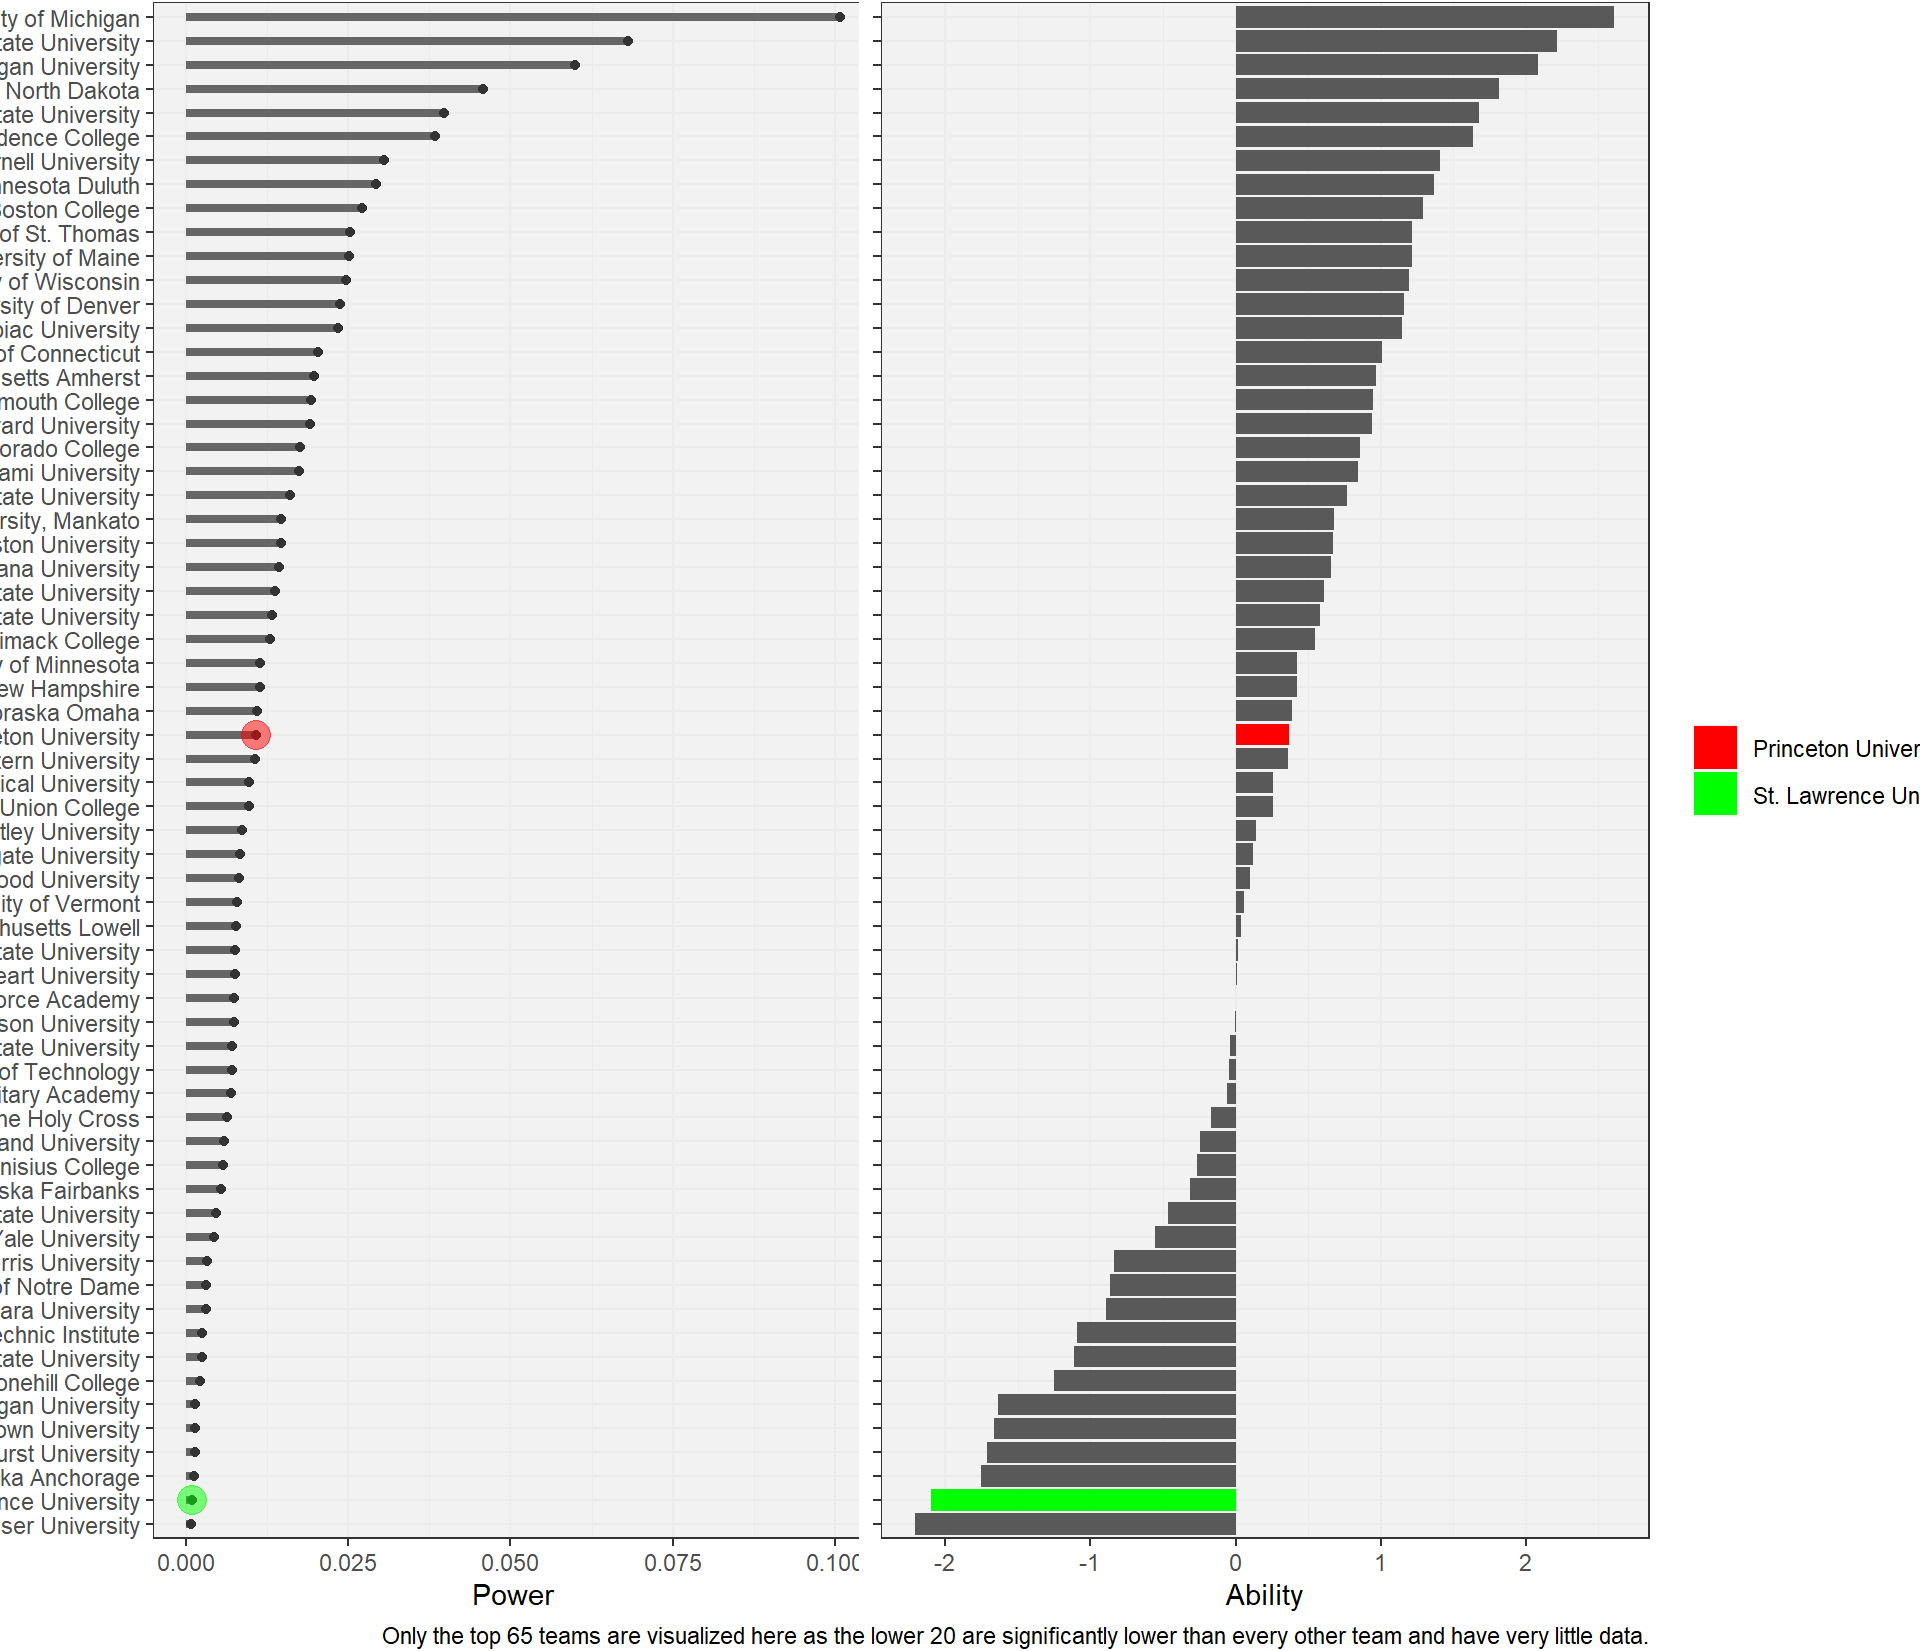
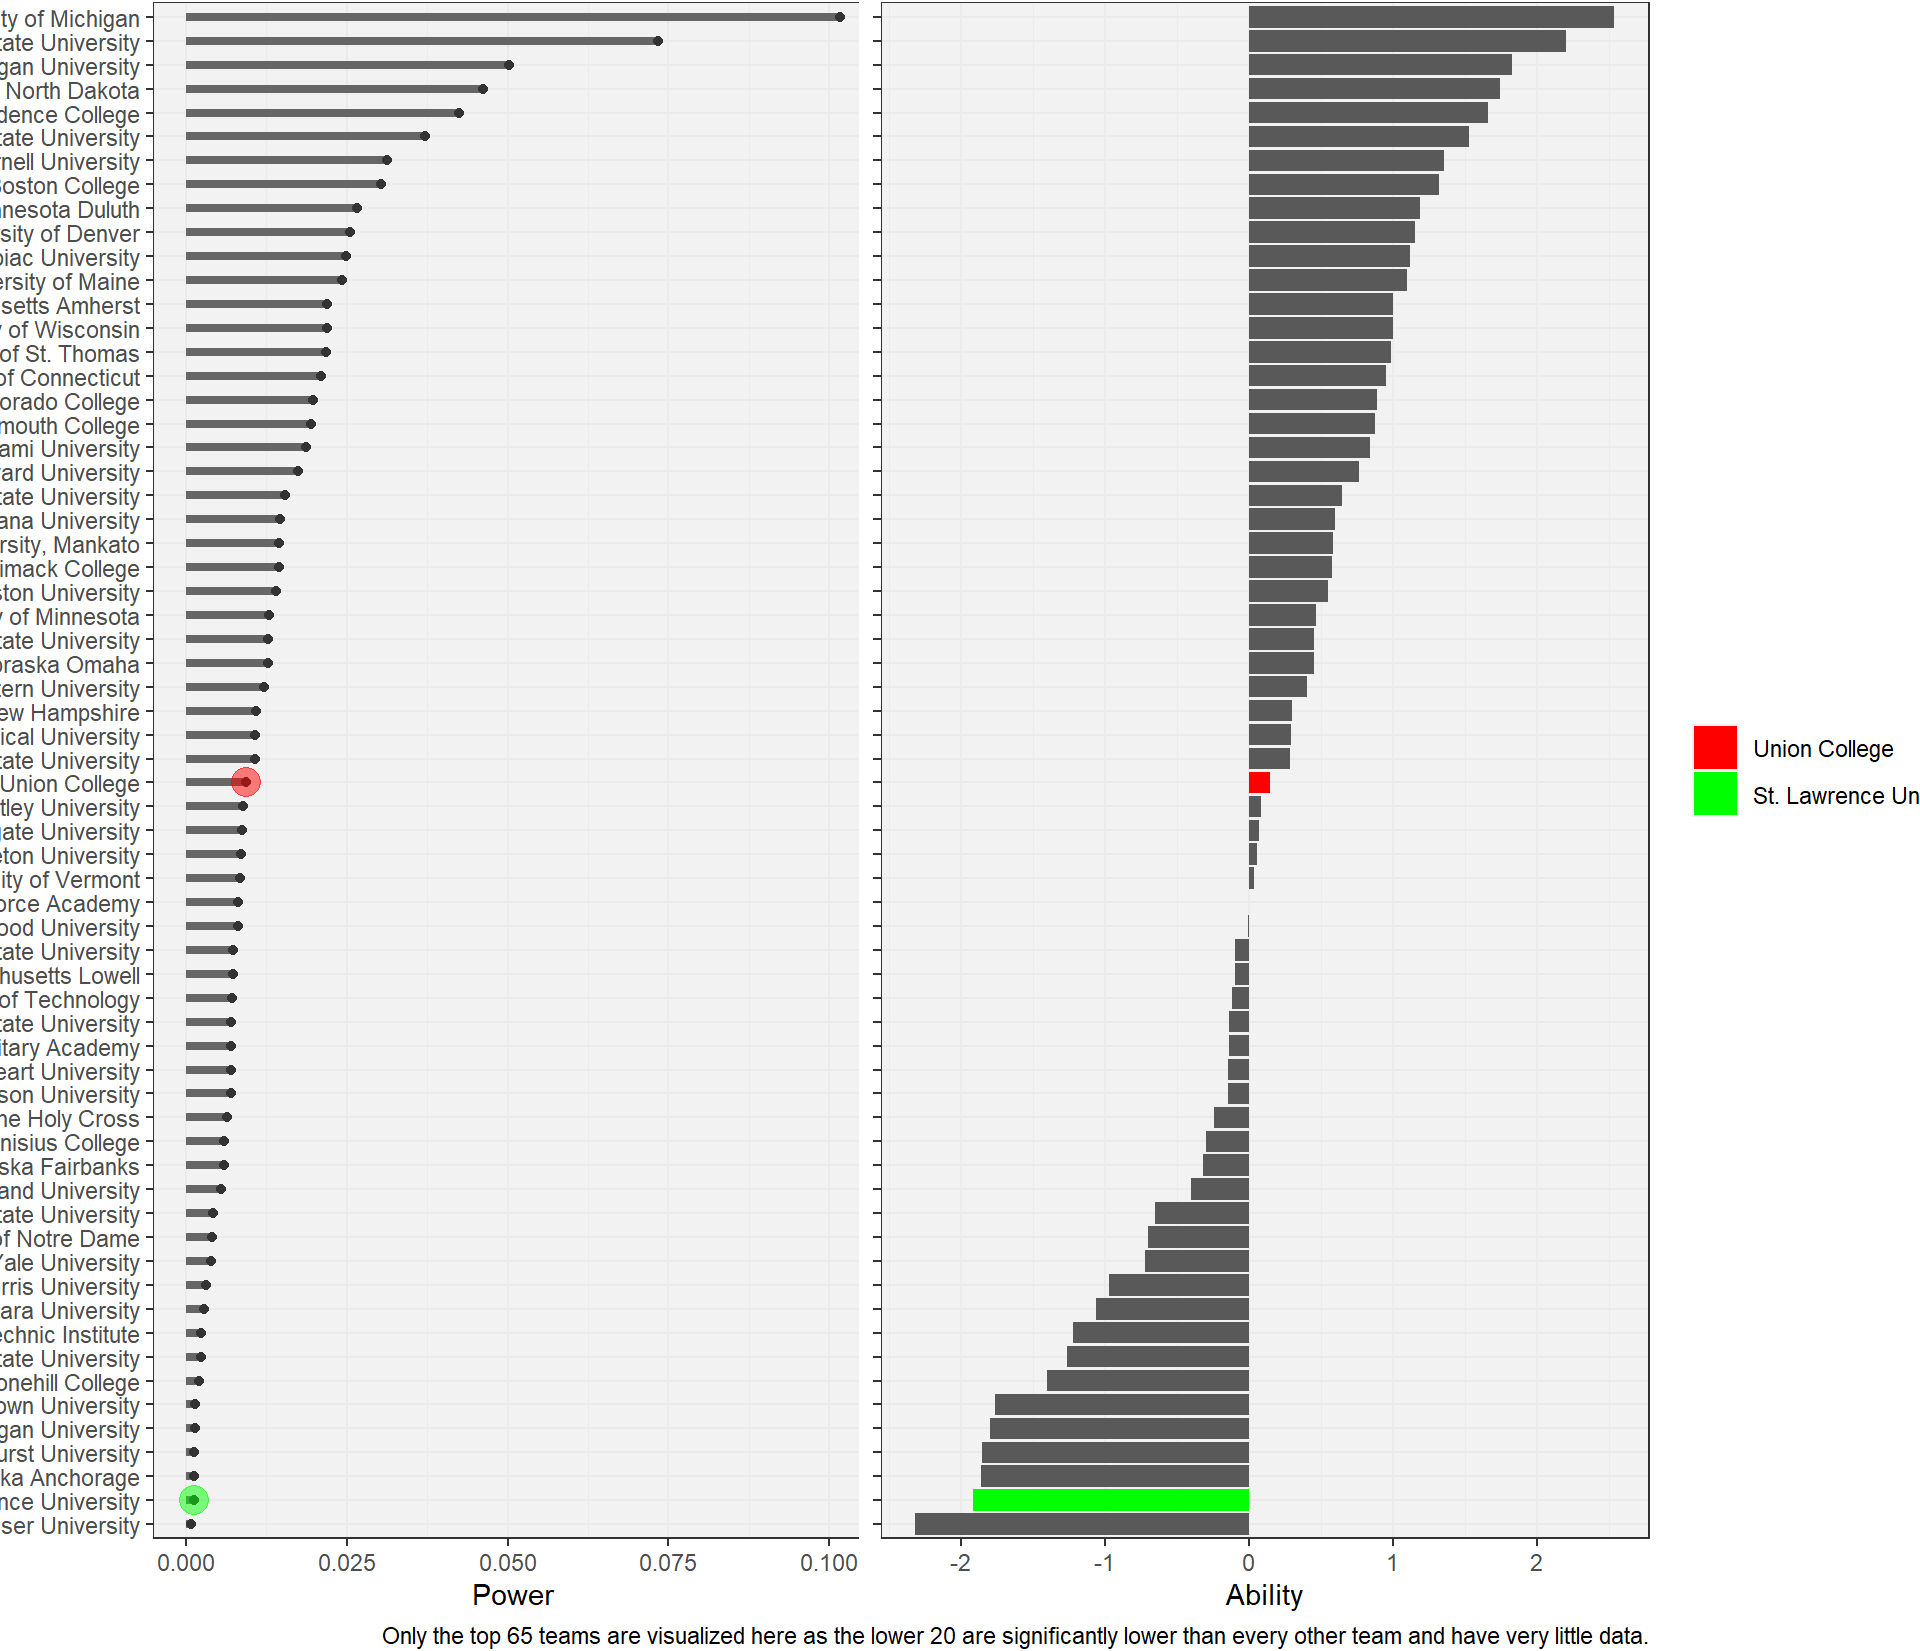
Updated for Union Hockey game

diff --git a/docs/posts/College Hockey/index.html b/docs/posts/College Hockey/index.html
@@ -224,32 +224,32 @@ pre > code.sourceCode > span > a:first-child::before { text-decoration: underlin
 <span id="cb1-2"><a href="#cb1-2" aria-hidden="true" tabindex="-1"></a><span class="co"># url &lt;- "https://www.uscho.com/scoreboard/division-i-women/20252026/composite-schedule/"</span></span>
 <span id="cb1-3"><a href="#cb1-3" aria-hidden="true" tabindex="-1"></a>url <span class="ot">&lt;-</span> <span class="st">"https://www.uscho.com/scoreboard/division-i-men/20252026/composite-schedule/"</span></span>
 <span id="cb1-4"><a href="#cb1-4" aria-hidden="true" tabindex="-1"></a>home_team <span class="ot">&lt;-</span> <span class="st">"St. Lawrence University"</span></span>
-<span id="cb1-5"><a href="#cb1-5" aria-hidden="true" tabindex="-1"></a>away_team <span class="ot">&lt;-</span> <span class="st">"Princeton University"</span></span></code></pre></div><button title="Copy to Clipboard" class="code-copy-button"><i class="bi"></i></button></div>
+<span id="cb1-5"><a href="#cb1-5" aria-hidden="true" tabindex="-1"></a>away_team <span class="ot">&lt;-</span> <span class="st">"Union College"</span></span></code></pre></div><button title="Copy to Clipboard" class="code-copy-button"><i class="bi"></i></button></div>
 </div>
 </section>
 <section id="outcome-prediction" class="level1">
 <h1>Outcome Prediction</h1>
 <div class="cell">
 <div class="cell-output cell-output-stdout">
-<pre><code>Probability of St. Lawrence University win:  0.09515896 </code></pre>
+<pre><code>Probability of St. Lawrence University win:  0.09025807 </code></pre>
 </div>
 <div class="cell-output cell-output-stdout">
-<pre><code>St. Lawrence University Expected Goals:  1.880149 </code></pre>
+<pre><code>St. Lawrence University Expected Goals:  2.077115 </code></pre>
 </div>
 <div class="cell-output cell-output-stdout">
-<pre><code>Probability of Princeton University win:  0.8048577 </code></pre>
+<pre><code>Probability of Union College win:  0.8114274 </code></pre>
 </div>
 <div class="cell-output cell-output-stdout">
-<pre><code>Princeton University Expected Goals:  4.613852 </code></pre>
+<pre><code>Union College Expected Goals:  5.045386 </code></pre>
 </div>
 <div class="cell-output cell-output-stdout">
-<pre><code>Probability of a tie:  0.09203802</code></pre>
+<pre><code>Probability of a tie:  0.08376587</code></pre>
 </div>
 </div>
 <div class="cell">
-<div class="code-copy-outer-scaffold"><div class="sourceCode cell-code" id="cb7"><pre class="sourceCode r code-with-copy"><code class="sourceCode r"><span id="cb7-1"><a href="#cb7-1" aria-hidden="true" tabindex="-1"></a>throwaway_home_df <span class="ot">&lt;-</span> ratings_plot <span class="sc">|&gt;</span> <span class="fu">filter</span>(FullName <span class="sc">==</span> home_team) <span class="sc">|&gt;</span> <span class="fu">mutate</span>(<span class="at">Team =</span> FullName)</span>
+<div class="code-copy-outer-scaffold"><div class="sourceCode cell-code" id="cb7"><pre class="sourceCode r code-with-copy"><code class="sourceCode r"><span id="cb7-1"><a href="#cb7-1" aria-hidden="true" tabindex="-1"></a>throwaway_home_df <span class="ot">&lt;-</span> ratings_plot <span class="sc">|&gt;</span> <span class="fu">filter</span>(FullName <span class="sc">==</span> home_team) <span class="sc">|&gt;</span> <span class="fu">mutate</span>(<span class="at">Team =</span> FullName, <span class="at">home_team =</span> FullName)</span>
 <span id="cb7-2"><a href="#cb7-2" aria-hidden="true" tabindex="-1"></a></span>
-<span id="cb7-3"><a href="#cb7-3" aria-hidden="true" tabindex="-1"></a>throwaway_away_df <span class="ot">&lt;-</span> ratings_plot <span class="sc">|&gt;</span> <span class="fu">filter</span>(FullName <span class="sc">==</span> away_team) <span class="sc">|&gt;</span> <span class="fu">mutate</span>(<span class="at">Team =</span> FullName)</span></code></pre></div><button title="Copy to Clipboard" class="code-copy-button"><i class="bi"></i></button></div>
+<span id="cb7-3"><a href="#cb7-3" aria-hidden="true" tabindex="-1"></a>throwaway_away_df <span class="ot">&lt;-</span> ratings_plot <span class="sc">|&gt;</span> <span class="fu">filter</span>(FullName <span class="sc">==</span> away_team) <span class="sc">|&gt;</span> <span class="fu">mutate</span>(<span class="at">Team =</span> FullName, <span class="at">away_team =</span> FullName)</span></code></pre></div><button title="Copy to Clipboard" class="code-copy-button"><i class="bi"></i></button></div>
 </div>
 </section>
 <section id="power-ability" class="level1">
@@ -280,15 +280,15 @@ pre > code.sourceCode > span > a:first-child::before { text-decoration: underlin
 <p><strong>St.&nbsp;Lawrence University Goalies</strong></p>
 <div class="cell">
 <div class="cell-output-display">
-<div class="reactable html-widget html-fill-item" id="htmlwidget-02368cdd428c0387c436" style="width:auto;height:auto;"></div>
-<script type="application/json" data-for="htmlwidget-02368cdd428c0387c436">{"x":{"tag":{"name":"Reactable","attribs":{"data":{"Rk":[49,82,104],"Name":["Mason Kucenski","Collin Winn","Cam Smith"],"Age":[23,21,23],"GP":[15,9,5],"SVPrct":[0.873,0.883,0.903],"W":[2,0,1],"L":[11,7,3],"GA":[57,37,18],"SV":[392,278,168],"SOG":[449,315,186],"TIME":[840,493,272],"GSAA":[-10.001,-4.027,1.47],"relative_save_prct":[-0.013,-0.003,0.017]},"columns":[{"id":"Rk","name":"Rank","type":"numeric"},{"id":"Name","name":"Name","type":"character"},{"id":"Age","name":"Age","type":"numeric"},{"id":"GP","name":"Games Played","type":"numeric"},{"id":"SVPrct","name":"Save %","type":"numeric"},{"id":"W","name":"Wins","type":"numeric"},{"id":"L","name":"Losses","type":"numeric"},{"id":"GA","name":"Goals Allowed","type":"numeric"},{"id":"SV","name":"Saves","type":"numeric"},{"id":"SOG","name":"Shots on Goal","type":"numeric"},{"id":"TIME","name":"Time On Ice","type":"numeric"},{"id":"GSAA","name":"Goals Saved Above Average","type":"numeric"},{"id":"relative_save_prct","name":"Relative Save Percent","type":"numeric"}],"dataKey":"ee6c93340849a9e25859b6a091eb9d48"},"children":[]},"class":"reactR_markup"},"evals":[],"jsHooks":[]}</script>
+<div class="reactable html-widget html-fill-item" id="htmlwidget-f39253842a69598cb8b8" style="width:auto;height:auto;"></div>
+<script type="application/json" data-for="htmlwidget-f39253842a69598cb8b8">{"x":{"tag":{"name":"Reactable","attribs":{"data":{"Rk":[53,87,101],"Name":["Mason Kucenski","Collin Winn","Cam Smith"],"Age":[23,21,23],"GP":[15,9,6],"SVPrct":[0.873,0.883,0.904],"W":[2,0,2],"L":[11,7,3],"GA":[57,37,20],"SV":[392,278,189],"SOG":[449,315,209],"TIME":[840,493,332],"GSAA":[-10.651,-4.483,1.575],"relative_save_prct":[-0.014,-0.004,0.017]},"columns":[{"id":"Rk","name":"Rank","type":"numeric"},{"id":"Name","name":"Name","type":"character"},{"id":"Age","name":"Age","type":"numeric"},{"id":"GP","name":"Games Played","type":"numeric"},{"id":"SVPrct","name":"Save %","type":"numeric"},{"id":"W","name":"Wins","type":"numeric"},{"id":"L","name":"Losses","type":"numeric"},{"id":"GA","name":"Goals Allowed","type":"numeric"},{"id":"SV","name":"Saves","type":"numeric"},{"id":"SOG","name":"Shots on Goal","type":"numeric"},{"id":"TIME","name":"Time On Ice","type":"numeric"},{"id":"GSAA","name":"Goals Saved Above Average","type":"numeric"},{"id":"relative_save_prct","name":"Relative Save Percent","type":"numeric"}],"dataKey":"7f35b498da2c75913e4a2dfa7ac3d980"},"children":[]},"class":"reactR_markup"},"evals":[],"jsHooks":[]}</script>
 </div>
 </div>
-<p><strong>Princeton University Goalies</strong></p>
+<p><strong>Union College Goalies</strong></p>
 <div class="cell">
 <div class="cell-output-display">
-<div class="reactable html-widget html-fill-item" id="htmlwidget-cc1d3556998615cc3e8b" style="width:auto;height:auto;"></div>
-<script type="application/json" data-for="htmlwidget-cc1d3556998615cc3e8b">{"x":{"tag":{"name":"Reactable","attribs":{"data":{"Rk":[75,80,133],"Name":["Conor Callaghan","Arthur Smith","Daniel Moor"],"Age":[22,21,19],"GP":[11,10,2],"SVPrct":[0.906,0.913,0.852],"W":[7,5,0],"L":[2,5,1],"GA":[23,24,4],"SV":[221,253,23],"SOG":[244,277,27],"TIME":[588,584,85],"GSAA":[2.541,4.995,-1.174],"relative_save_prct":[0.016,0.023,-0.038]},"columns":[{"id":"Rk","name":"Rank","type":"numeric"},{"id":"Name","name":"Name","type":"character"},{"id":"Age","name":"Age","type":"numeric"},{"id":"GP","name":"Games Played","type":"numeric"},{"id":"SVPrct","name":"Save %","type":"numeric"},{"id":"W","name":"Wins","type":"numeric"},{"id":"L","name":"Losses","type":"numeric"},{"id":"GA","name":"Goals Allowed","type":"numeric"},{"id":"SV","name":"Saves","type":"numeric"},{"id":"SOG","name":"Shots on Goal","type":"numeric"},{"id":"TIME","name":"Time On Ice","type":"numeric"},{"id":"GSAA","name":"Goals Saved Above Average","type":"numeric"},{"id":"relative_save_prct","name":"Relative Save Percent","type":"numeric"}],"dataKey":"e71d389b3479c7119fa6c6e9c0a6b0f2"},"children":[]},"class":"reactR_markup"},"evals":[],"jsHooks":[]}</script>
+<div class="reactable html-widget html-fill-item" id="htmlwidget-eb1a883e754cc07c7e24" style="width:auto;height:auto;"></div>
+<script type="application/json" data-for="htmlwidget-eb1a883e754cc07c7e24">{"x":{"tag":{"name":"Reactable","attribs":{"data":{"Rk":[42,76,141],"Name":["Cameron Korpi","Brayden Gillespie","Brendan Holahan"],"Age":[21,20,21],"GP":[17,11,2],"SVPrct":[0.898,0.925,1],"W":[9,6,0],"L":[6,3,0],"GA":[38,19,0],"SV":[333,236,3],"SOG":[371,255,3],"TIME":[960,592,6],"GSAA":[0.298,7.323,0.31],"relative_save_prct":[-0.043,-0.016,0.059]},"columns":[{"id":"Rk","name":"Rank","type":"numeric"},{"id":"Name","name":"Name","type":"character"},{"id":"Age","name":"Age","type":"numeric"},{"id":"GP","name":"Games Played","type":"numeric"},{"id":"SVPrct","name":"Save %","type":"numeric"},{"id":"W","name":"Wins","type":"numeric"},{"id":"L","name":"Losses","type":"numeric"},{"id":"GA","name":"Goals Allowed","type":"numeric"},{"id":"SV","name":"Saves","type":"numeric"},{"id":"SOG","name":"Shots on Goal","type":"numeric"},{"id":"TIME","name":"Time On Ice","type":"numeric"},{"id":"GSAA","name":"Goals Saved Above Average","type":"numeric"},{"id":"relative_save_prct","name":"Relative Save Percent","type":"numeric"}],"dataKey":"03b3b92440d40b743bf06f580db850fc"},"children":[]},"class":"reactR_markup"},"evals":[],"jsHooks":[]}</script>
 </div>
 </div>
 <div class="cell">

diff --git a/docs/index.html b/docs/index.html
@@ -240,7 +240,7 @@ Feb 3, 2026
 </a>
 </div>
 </div>
-<div class="quarto-post image-right" data-index="1" data-categories="c3BvcnRzJTJDaG9ja2V5JTJDYW5hbHlzaXM=" data-listing-date-sort="1769576400000" data-listing-file-modified-sort="1769915151764" data-listing-date-modified-sort="NaN" data-listing-reading-time-sort="30" data-listing-word-count-sort="5922">
+<div class="quarto-post image-right" data-index="1" data-categories="c3BvcnRzJTJDaG9ja2V5JTJDYW5hbHlzaXM=" data-listing-date-sort="1769576400000" data-listing-file-modified-sort="1770402036709" data-listing-date-modified-sort="NaN" data-listing-reading-time-sort="30" data-listing-word-count-sort="5915">
 <div class="thumbnail"><a href="./posts/College Hockey/index.html" class="no-external">
 
 <p class="card-img-top"><img src="posts\College Hockey\index_files\figure-html\unnamed-chunk-15-1.png"  class="thumbnail-image card-img"/></p>
